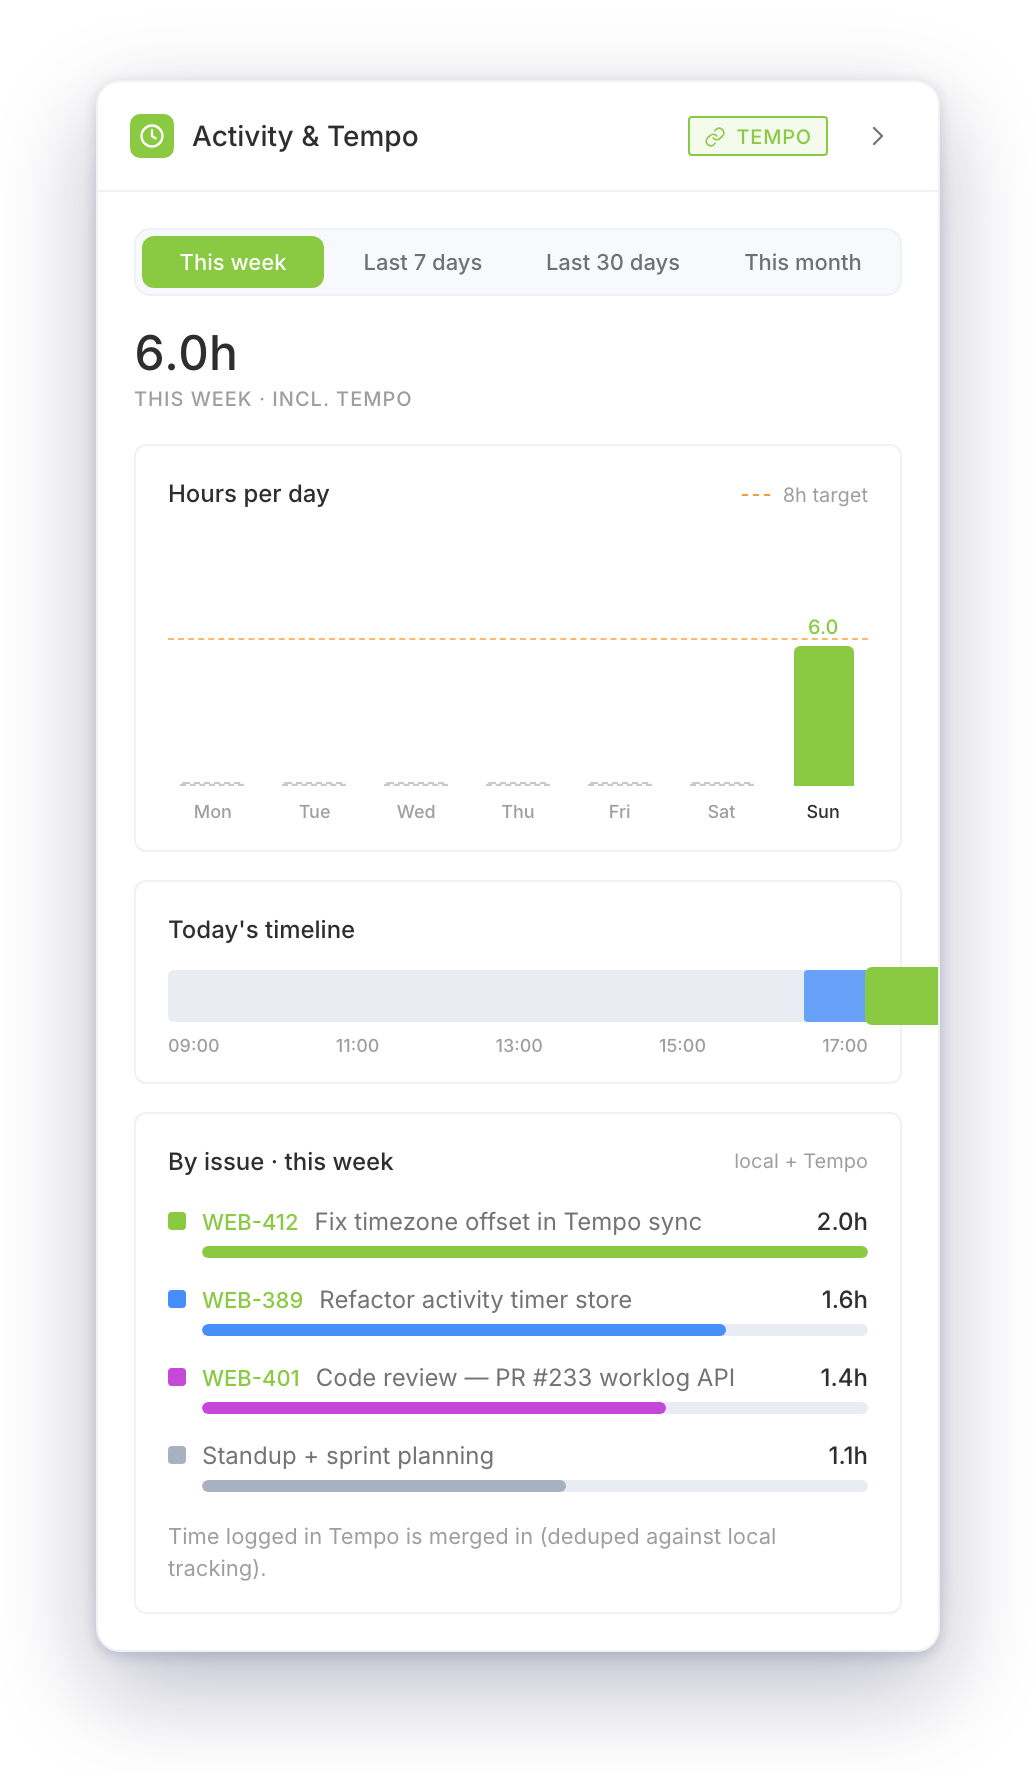
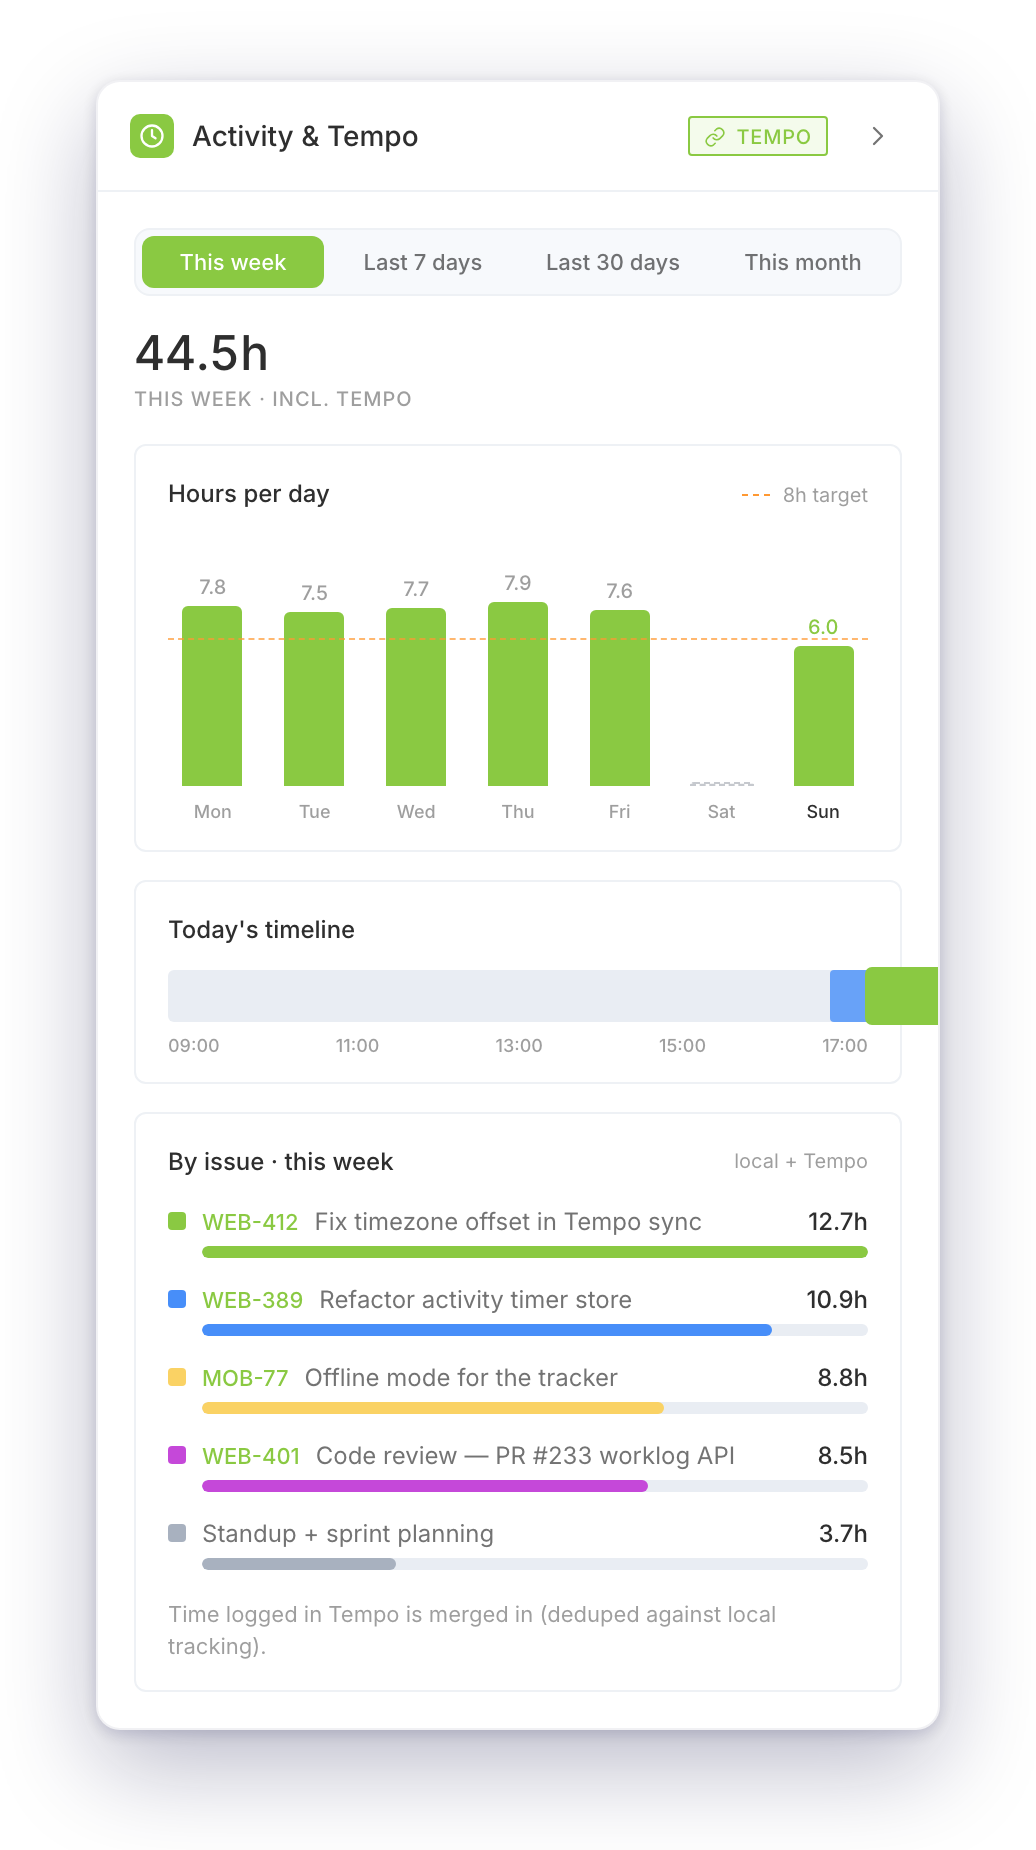
Charts section: show the full demo week, cap card height (crop issue list)
Re-captured the Activity & Tempo shot on 'This week' showing the full Mon–Sun
week (the earlier shot showed only today). Add .feature--crop to cap the tall
charts card and crop the lower issue list so the section stays in rhythm.

diff --git a/styles.css b/styles.css
@@ -318,6 +318,9 @@ a { -webkit-tap-highlight-color: transparent; }
 .feature--flip .feature-shot { order: 1; justify-content: flex-start; }
 .feature:not(.feature--flip) .feature-shot { justify-content: flex-end; }
 .feature--wide .feature-card { max-width: 560px; }
+/* Tall shot (charts): cap height and crop the lower issue list from the bottom,
+   so the section stays in rhythm with the others. */
+.feature--crop .feature-card img { max-height: 480px; object-fit: cover; object-position: top; }
 
 /* --------------------------------------------------------- CTA / download - */
 .cta { background: #1c1f1d; margin-top: 60px; }

diff --git a/index.html b/index.html
@@ -183,7 +183,7 @@
         </article>
 
         <!-- 5 — charts -->
-        <article class="feature">
+        <article class="feature feature--crop">
           <div class="feature-text">
             <p class="eyebrow">Activity &amp; Tempo</p>
             <h2 class="h2">See where the week actually went</h2>
